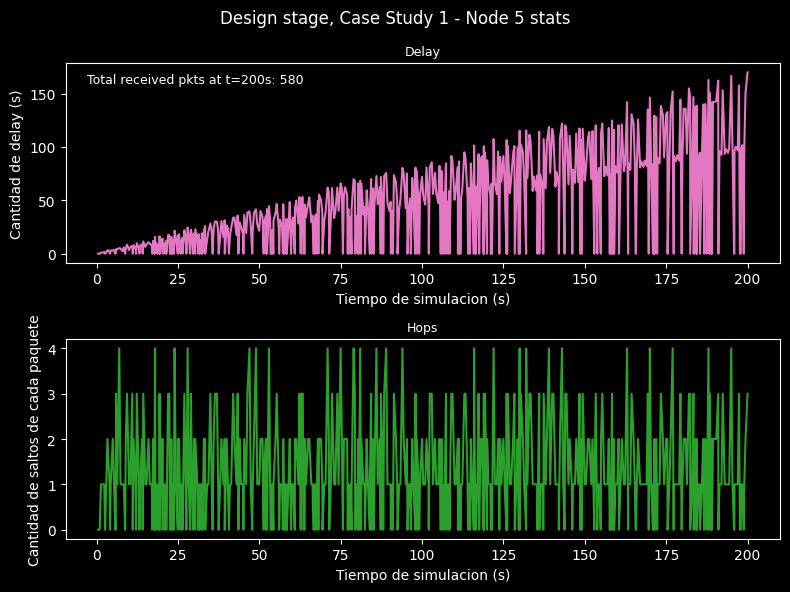
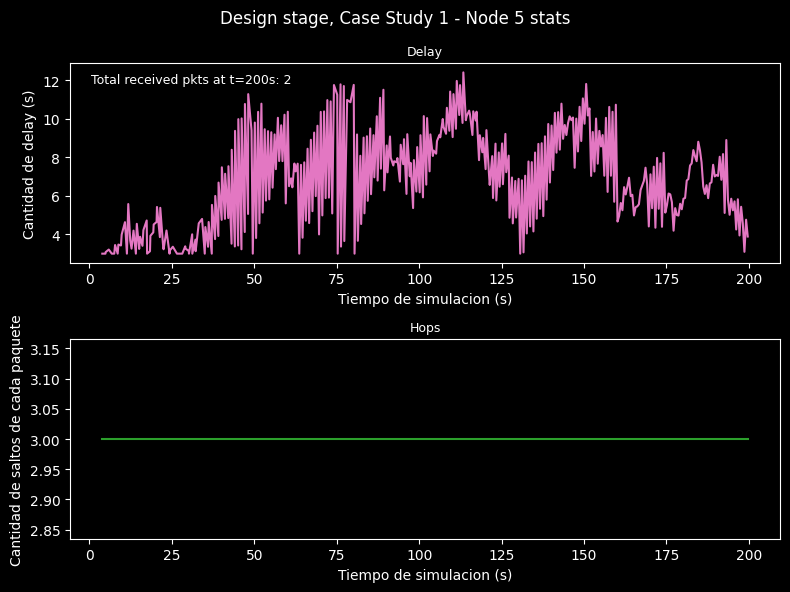
Metricas star, graficos

diff --git a/src/Net.cc b/src/Net.cc
@@ -28,6 +28,14 @@ Net::~Net() {
 // INITIALIZATION FUNCTION
 
 void Net::initialize() {
+    //metrics
+    fwdDataPkt.setName("Forwarded DataPackets");
+    rcvDataPkt.setName("Received DataPackets");
+    sentNeighbor.setName("Sent NeighborPkt");
+    rcvNeighbor.setName("Rcv NeighborPkt");
+    fwdNeighbor.setName("Fwd NeighborPkt");
+    sentLSP.setName("Sent LSP");
+    rcvLSP.setName("Rcv LSP");
     // Set my node information
     nodeName = this->getParentModule()->getIndex();
 
@@ -65,6 +73,7 @@ void Net::askForNeighbors() {
             continue;
         NeighborInfoPacket *pkt = createNeighborInfoPacket(gateID);
         send((cMessage *) pkt, "toLnk$o", gateID);
+        sentNeighbor.record(1);
         cntNeighborConnected++;
     }
 }
@@ -120,6 +129,7 @@ void Net::sendLSPInformation(LSPPacket *pkt) {
     // Send the LSP Info to the network
     for (pair<int, int> neighbor : neighborList)
         send((cMessage *) pkt->dup(), "toLnk$o", neighbor.second);
+        sentLSP.record(1);
 }
 
 // Mapping nodeName and graphIndex (return the index or create the new entry for it)
@@ -252,23 +262,29 @@ void Net::handleMessage(cMessage *msg) {
     } else if (isDataPacket((Packet *) msg)) { // Data Packet
 
         // If this node is the final destination, send to App layer
-        if (((Packet *) msg)->getDestination() == nodeName)
+        if (((Packet *) msg)->getDestination() == nodeName) {
             send(msg, "toApp$o");
-        else // Re-send the packet
-            send(msg, "toLnk$o", getBestGate(((Packet *) msg)->getDestination()));
-
+            rcvDataPkt.record(1);
+        } else { // Re-send the packet
+            Packet *pkt = (Packet *)msg;
+            send(pkt, "toLnk$o", getBestGate(((Packet *) pkt)->getDestination()));
+            pkt->setHopCount(pkt->getHopCount() + 1);
+            fwdDataPkt.record(1);
+        }
     } else if (isNeighborInfoPacket((Packet *) msg)) { // Neighbor Packet
 
         // If i've to complete with my info and return the packet
-        if (((Packet *) msg)->getSource() != nodeName)
+        if (((Packet *) msg)->getSource() != nodeName){
+            fwdNeighbor.record(1);
             completeNeighborInfoAndReturn((NeighborInfoPacket *) msg);
-        else { // If i've to actualize with my neighbor info
+        } else { // If i've to actualize with my neighbor info
             actualizeNeighbors((NeighborInfoPacket *) msg);
+            rcvNeighbor.record(1);
             delete(msg);
         }
 
     } else if (isLSPPacket((Packet *) msg)) { // LSP Packet --> Actualize the network information
-
+        rcvLSP.record(1);
         actualizeNetworkLocalInformation((LSPPacket *) msg);
         delete(msg);
 

diff --git a/src/App.cc b/src/App.cc
@@ -36,6 +36,8 @@ void App::initialize() {
     // Initialize statistics
     delayStats.setName("TotalDelay");
     delayVector.setName("Delay");
+    newPktCount.setName("Sent DataPkt");
+    hops.setName("Hops");
 }
 
 void App::finish() {
@@ -56,7 +58,7 @@ void App::handleMessage(cMessage *msg) {
 
         // send to net layer
         send(pkt, "toNet$o");
-
+        newPktCount.record(1);
         // compute the new departure time and schedule next sendMsgEvent
         simtime_t departureTime = simTime() + par("interArrivalTime");
         scheduleAt(departureTime, sendMsgEvent);
@@ -64,12 +66,17 @@ void App::handleMessage(cMessage *msg) {
     }
     // else, msg is a packet from net layer
     else {
+        // cast the message to the custom packet class
+        Packet *pkt = check_and_cast<Packet *>(msg);
+
         // compute delay and record statistics
         simtime_t delay = simTime() - msg->getCreationTime();
         delayStats.collect(delay);
         delayVector.record(delay);
+        hops.record(pkt->getHopCount());
         // delete msg
         delete (msg);
     }
 
 }
+ 

diff --git a/src/Net.h b/src/Net.h
@@ -54,6 +54,15 @@ class Net : public cSimpleModule
     // Gate to Send the Packet
     vector<int> gateToSend;
 
+    //metrics
+    cOutVector fwdDataPkt;
+    cOutVector rcvDataPkt;
+    cOutVector sentNeighbor;
+    cOutVector rcvNeighbor;
+    cOutVector fwdNeighbor;
+    cOutVector sentLSP;
+    cOutVector rcvLSP;
+
   public:
     Net();
     virtual ~Net();

diff --git a/src/App.h b/src/App.h
@@ -29,6 +29,8 @@ class App : public cSimpleModule
     cMessage *sendMsgEvent;
     cStdDev delayStats;
     cOutVector delayVector;
+    cOutVector newPktCount;
+    cOutVector hops;
   public:
     App();
     virtual ~App();
